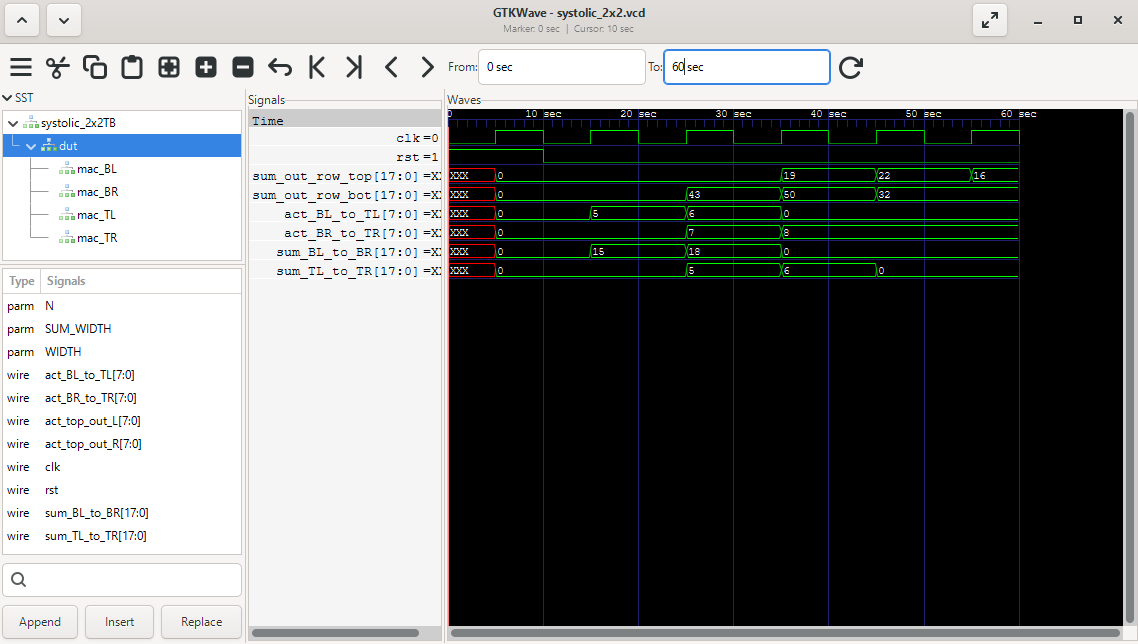
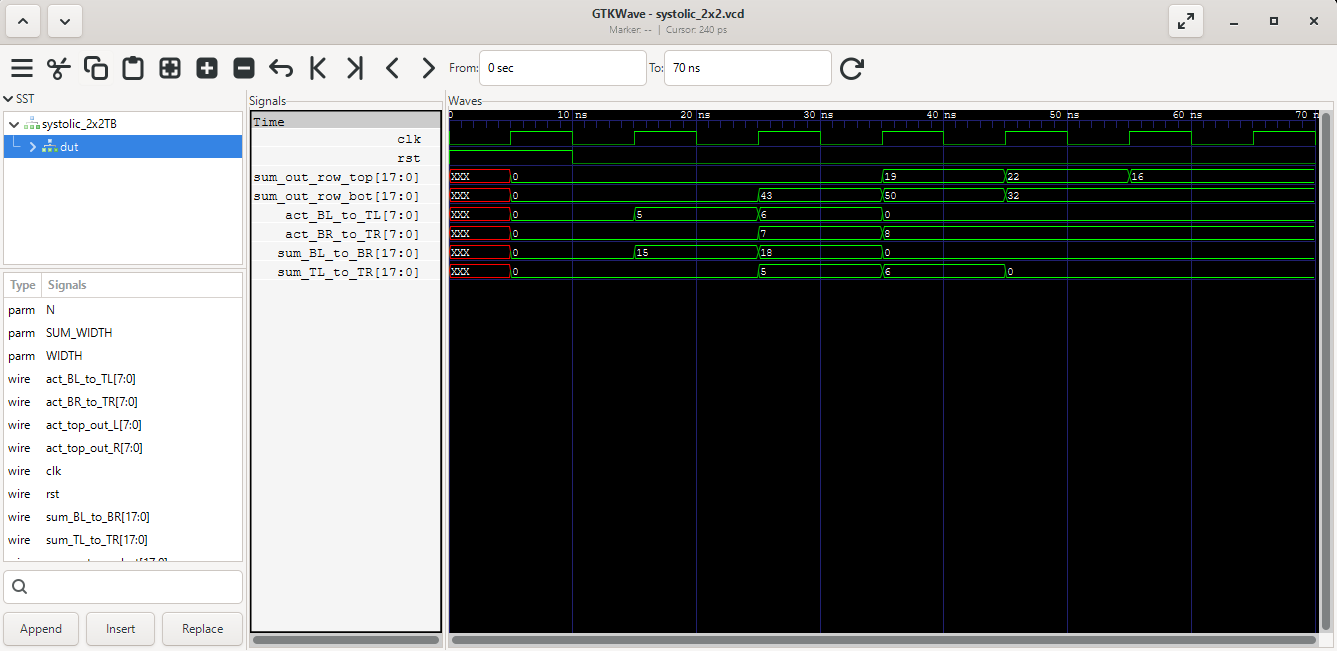
Changed waveform timescale. Made relevant changes.

Changed region(s): [[0.0, 0.0, 1.0, 1.0], [0.4306, 0.0, 0.5844, 0.1242], [0.8612, 0.0, 0.9227, 0.0621]]

diff --git a/README.md b/README.md
@@ -92,8 +92,8 @@ iverilog -g2012 -o mac_sim tb/macTB.v rtl/mac.v
 vvp mac_sim
 
 # Full 2x2 array
-iverilog -g2012 -o sys tb/systolic_2x2TB.v rtl/systolic_2x2.v rtl/mac.v
-vvp sys
+iverilog -g2012 -o systolic_sim tb/systolic_2x2TB.v rtl/systolic_2x2.v rtl/mac.v
+vvp systolic_sim
 ```
 
 Note that `rtl/mac.v` holds a module named `mac_unit`, so it has to be listed on the command line explicitly. Icarus can also search a directory for missing modules with `-y rtl`, but that option matches modules to files by name, so it would only work here if the file were renamed to `mac_unit.v`.
@@ -148,11 +148,11 @@ Console output tells us the answers came out right, but it doesn't tell us the a
 
 ![GTKWave capture of the 2x2 systolic array, showing activations and partial sums propagating between processing elements](docs/waveform.png)
 
-Reading it left to right, the reset holds everything at zero until 10, and the first rising edge afterward starts the array moving. Table 2 walks through what each edge produces.
+The testbench clocks at a 10 ns period, so every value below lands on a rising edge one full cycle after the one before it. Reading the capture left to right, the reset holds everything at zero until 10 ns, and the first rising edge afterward starts the array moving. Table 2 walks through what each edge produces.
 
 *Table 2: Internal Wire Values at Each Clock Edge*
 
-| Time | Wire | Value | Where it came from |
+| Time (ns) | Wire | Value | Where it came from |
 |---|---|---|---|
 | 15 | `act_BL_to_TL` | 5 | `mac_BL` passes its activation up to `mac_TL` |
 | 15 | `sum_BL_to_BR` | 15 | `mac_BL` computes 3 · 5, the array's first product |
@@ -169,15 +169,13 @@ Reading it left to right, the reset holds everything at zero until 10, and the f
 
 Three things in this capture are worth calling out, because together they're the real proof the design works rather than merely producing the right digits.
 
-First, the skew is visible. `act_BL_to_TL` picks up its first value at 15 while `act_BR_to_TR` doesn't move until 25, exactly one clock period behind. That's the staggered input schedule from earlier, and seeing it on the wire confirms the columns really are offset rather than the answer coming out right by luck.
+First, the skew is visible. `act_BL_to_TL` picks up its first value at 15 ns while `act_BR_to_TR` doesn't move until 25 ns, exactly one clock period behind. That's the staggered input schedule from earlier, and seeing it on the wire confirms the columns really are offset rather than the answer coming out right by luck.
 
-Next, we can watch a partial sum grow as it crosses the array. At 15, `sum_BL_to_BR` holds 15, which is `mac_BL`'s product alone. One cycle later that same 15 has traveled to `mac_BR`, been added to `4 · 7`, and emerged on `sum_out_row_bot` as 43. That is a dot product being assembled in two pieces by two different elements, one cycle apart, which is the entire premise of a systolic array made visible.
+Next, we can watch a partial sum grow as it crosses the array. At 15 ns, `sum_BL_to_BR` holds 15, which is `mac_BL`'s product alone. One cycle later that same 15 has traveled to `mac_BR`, been added to `4 · 7`, and emerged on `sum_out_row_bot` as 43. That is a dot product being assembled in two pieces by two different elements, one cycle apart, which is the entire premise of a systolic array made visible.
 
-The two trailing values, `32` at 45 and `16` at 55, are the undrained-pipeline artifact described above, now visible as the tail of the capture rather than a stray line of console output.
+The two trailing values, `32` at 45 ns and `16` at 55 ns, are the undrained-pipeline artifact described above, now visible as the tail of the capture rather than a stray line of console output.
 
-Lastly, the row offset shows up on the output side. `sum_out_row_bot` produces 43 at 25, a full cycle before `sum_out_row_top` produces 19 at 35. The bottom row finishes first because its activations entered first, so the skew we introduced at the input propagates all the way through to the output. Reading these two rows as if they appeared simultaneously is exactly the mistake that makes a working array look broken.
-
-One caveat on the figure, the time axis reads in seconds because `tb/systolic_2x2TB.v` has no `` `timescale `` directive, so the simulator falls back to its default unit. It has no effect on the arithmetic, but the units are meaningless and the directive belongs in the testbench.
+Lastly, the row offset shows up on the output side. `sum_out_row_bot` produces 43 at 25 ns, a full cycle before `sum_out_row_top` produces 19 at 35 ns. The bottom row finishes first because its activations entered first, so the skew we introduced at the input propagates all the way through to the output. Reading these two rows as if they appeared simultaneously is exactly the mistake that makes a working array look broken.
 
 ## Limitations
 
@@ -190,7 +188,7 @@ Knowing where a design stops is part of the design, so stated plainly:
 - **No memory interface.** Weights and activations are driven directly by the testbench. There's no bus interface, no weight-load state machine, and no buffering.
 - **The pipeline is not drained.** As seen above, the array keeps computing on stale activations once the input stream stops.
 
-Two smaller things worth flagging. `tb/macTB.v` declares its `sum_in` and `sum_out` as 17 bits while the module's ports are 18, so Icarus pads the difference and warns about it. The test still passes, but the testbench should match the module's `SUM_WIDTH` formula rather than hardcoding a width. Separately, `tb/systolic_2x2TB.v` is missing a `` `timescale `` directive, which is why its waveform reads in seconds.
+One smaller thing worth flagging. `tb/macTB.v` declares its `sum_in` and `sum_out` as 17 bits while the module's ports are 18, so Icarus pads the difference and warns about it. The test still passes, but the testbench should match the module's `SUM_WIDTH` formula rather than hardcoding a width.
 
 ## Roadmap
 
@@ -201,7 +199,6 @@ Two smaller things worth flagging. `tb/macTB.v` declares its `sum_in` and `sum_o
 - [ ] Drain the pipeline properly at the end of an input stream
 - [ ] Run through Yosys for real area and timing numbers
 - [ ] Add a weight-load FSM so weights stream in rather than being set directly
-- [ ] Add a `` `timescale `` to the array testbench so waveforms read in nanoseconds
 
 ## Repository Layout
 
